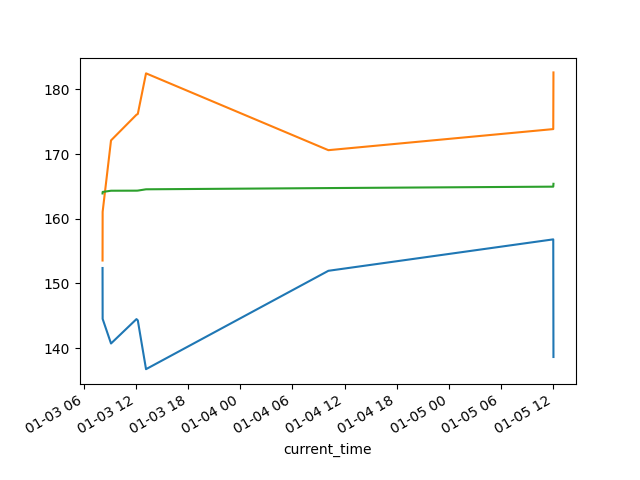
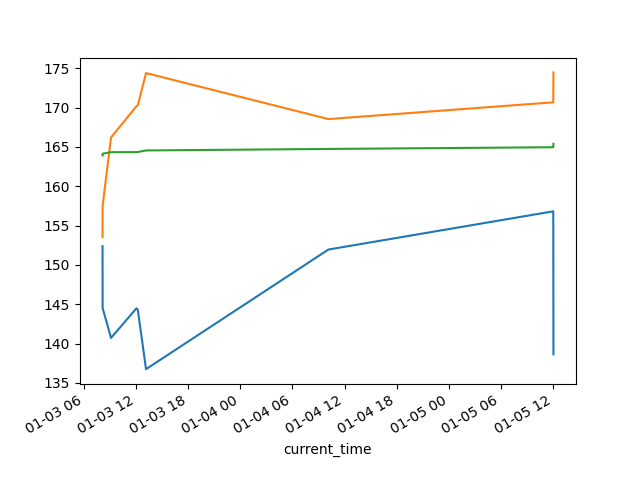
fixed profit

diff --git a/graph.py b/graph.py
@@ -19,14 +19,15 @@ def calc_unfinished_races(index=-1):
             df.index.values[index]) & (df.index <= df.index.values[index])
     races = df.loc[mask]
     for index, row in races.iterrows():
-        if not row['is_lay']:
-            stake = row['ew_stake'] * 2
-            liability = 0
-        else:
-            stake = row['ew_stake'] + row['win_stake'] + row['place_stake']
+        stake = row['ew_stake'] * 2
+        # print(row['win_stake'], row['lay_odds'], row['place_stake'],
+        #       row['lay_odds_place'])
+        if row['is_lay']:
             liability = row['win_stake'] * (row['lay_odds'] -
                                             1) + row['place_stake'] * (
                                                 row['lay_odds_place'] - 1)
+        else:
+            liability = 0
         in_bet_balance += (stake + liability)
     return round(in_bet_balance, 2)
 
@@ -35,9 +36,17 @@ def output_profit():
     # starting_balance = df['balance'].values[0] + df['betfair_balance'].values[
     #     0] + calc_unfinished_races(0)
     # 03 Jan 00:01 2021,Starting Balance,2.25,N/A,0.58,59.11,99.91,03/01/2021 00:00:00,0%,0,2.42,1.15,0,0,93.28,0.12,False,0,0,0
+    today_first_bet = df.loc[datetime.datetime.now().strftime(
+        '%Y-%m-%d')].index.values[0]
+    count = 0
+    for index, row in df.iterrows():
+        if today_first_bet == index:
+            break
+        count += 1
     today_starting_balance = df.loc[datetime.datetime.now().strftime(
-        '%Y-%m-%d')]['balance'].values[0] + df.loc[datetime.datetime.now(
-        ).strftime('%Y-%m-%d')]['betfair_balance'].values[0]
+        '%Y-%m-%d')]['balance'].values[0] + df.loc[
+            datetime.datetime.now().strftime('%Y-%m-%d')][
+                'betfair_balance'].values[0] + calc_unfinished_races(count)
 
     current_sporting_index_balance = df['balance'].values[-1]
     current_betfair_balance = df['betfair_balance'].values[-1]

diff --git a/betfair_api.py b/betfair_api.py
@@ -42,12 +42,13 @@ def output_lay_ew(race, betfair_balance, sporting_index_balance, profit,
                   place_bet_made, place_is_matched, place_stake,
                   place_matched):
     print(f"\nArb bet made: {race['horse_name']} - profit: £{profit}")
-    print(f"\tBack bookie: {race['horse_odds']} - {race['bookie_stake']} \
-        Lay win: {race['lay_odds']} - {win_stake} \
-        Lay place: {race['lay_odds_place']} - {place_stake}")
+    print(
+        f"\tBack bookie: {race['horse_odds']} - {race['bookie_stake']} Lay win: {race['lay_odds']} - {win_stake} Lay place: {race['lay_odds_place']} - {place_stake}"
+    )
 
-    print(f"\t Lay win: {win_bet_made} - is matched: {win_is_matched} \
-        Lay place: {place_bet_made} is matched {place_is_matched}")
+    print(
+        f"\t Lay win: {win_bet_made} - is matched: {win_is_matched} Lay place: {place_bet_made} is matched: {place_is_matched}"
+    )
 
     if not win_is_matched:
         print(f"\tLay win matched size: {win_matched}")
